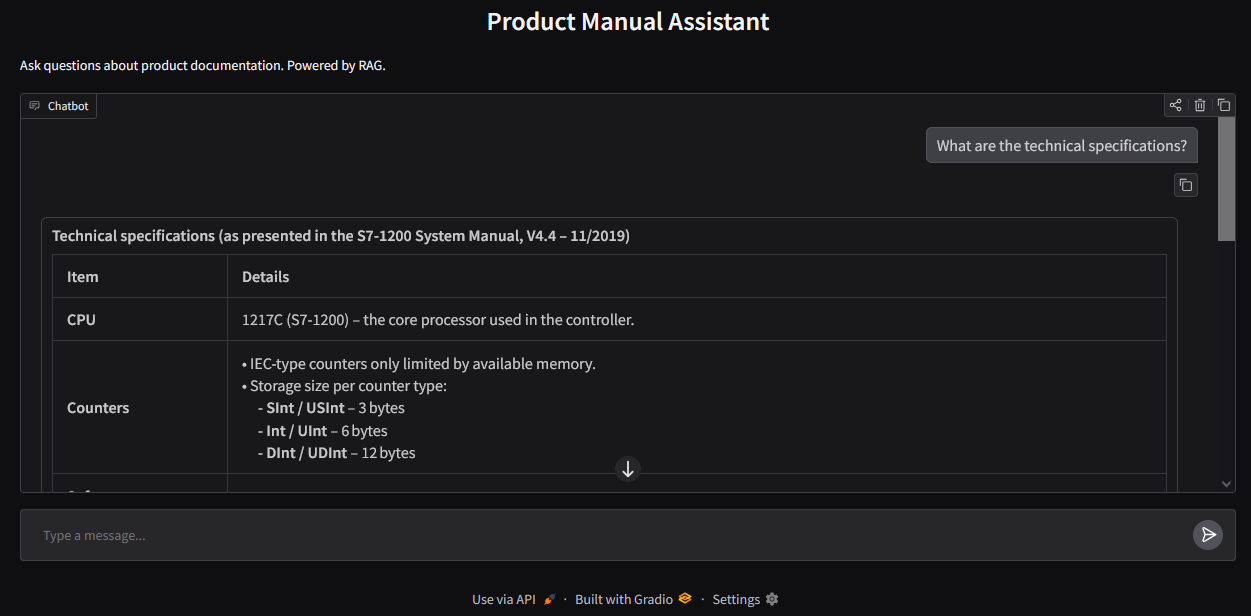
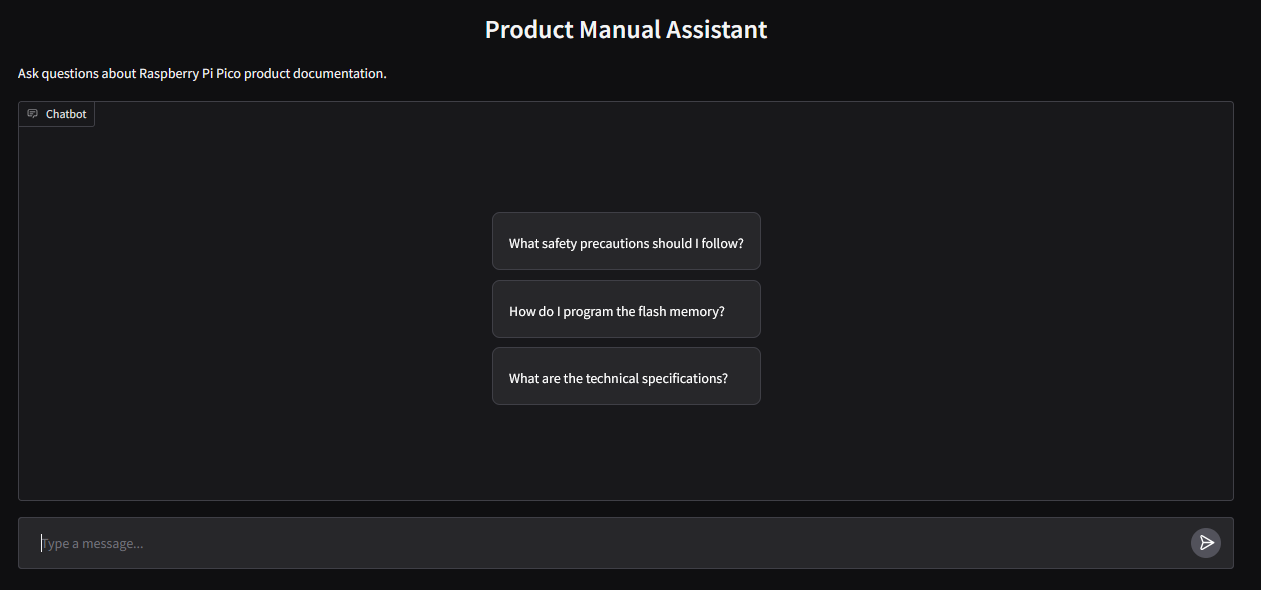
Change product documentation used and modified files as needed.

diff --git a/app.py b/app.py
@@ -49,10 +49,8 @@ def rag_prompt(request: ModelRequest) -> str:
     )
 
     return (
-        "You are a helpful technical assistant that answers questions "
-        "about product documentation.\n"
-        "Use only the provided context to answer. If the context doesn't "
-        "contain enough information, say so honestly.\n\n"
+        "You are a helpful technical assistant that answers questions about product documentation.\n"
+        "Use only the provided context to answer. If the context doesn't contain enough information, say so honestly."
         f"Context:\n{docs_content}"
     )
 
@@ -73,10 +71,10 @@ def respond(message, history):
 demo = gr.ChatInterface(
     fn=respond,
     title="Product Manual Assistant",
-    description="Ask questions about product documentation. Powered by RAG.",
+    description="Ask questions about Raspberry Pi Pico product documentation.",
     examples=[
         "What safety precautions should I follow?",
-        "How do I configure the network settings?",
+        "How do I program the flash memory?",
         "What are the technical specifications?",
     ],
 )

diff --git a/README.md b/README.md
@@ -11,6 +11,10 @@ A RAG (Retrieval-Augmented Generation) chatbot that answers technical questions 
 
 ![Demo Screenshot](demo.png)
 
+For the purpose of this demo, the Raspberry Pi Pico product documentation is used.
+
+For a live demo, you can have a look at this [HuggingFace page](https://huggingface.co/spaces/aliauw/product-manual-assistant).
+
 ## Overview
 
 The user can ask natural language questions about product documentation and receive accurate, context-grounded answers. Instead of searching through hundreds of pages manually, the chatbot retrieves the most relevant sections and generates relevant response.
@@ -78,7 +82,7 @@ User Question
 1. Clone the repository:
    ```bash
    git clone https://github.com/alvinlitani/RAG-for-Product-Manual-Assistant.git
-   cd product-manual-assistant
+   cd RAG-for-Product-Manual-Assistant
    ```
 
 2. Create and activate the conda environment:
